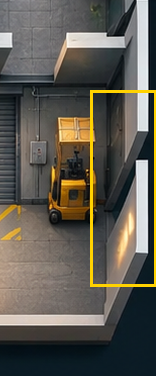
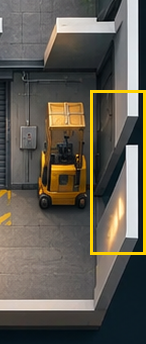
Cutaway spike: opening-mask rules, region 04b, revised masks 05 and 06
Claude-Session: https://claude.ai/code/session_015gowGr7XErynRgXchMmhL4

diff --git a/spikes/cutaway/base.js b/spikes/cutaway/base.js
@@ -10,8 +10,10 @@ const E = require('../../src/engine.js');
 const VARIANTS = { A: { k: 0.78, hI: 6, hE: 24, hF: 2, hT: 30, sh: 0 }, B: { k: 0.62, hI: 8, hE: 36, hF: 2, hT: 46, sh: 0 }, C: { k: 0.68, hI: 9, hE: 34, hF: 2, hT: 42, sh: 0.5 } };
 const geom = v => { const g = VARIANTS[v], off = g.hE + 6; return { ...g, h: g.hI, off, W: 400, H: Math.ceil(off + 300 * g.k + 6) }; };
 
-/* arch = true: architecture only, white on black, with no openings cut. That is every wall face, side face and cap plus
-   the wall span each opening sits in: the pixels a correction mask must never touch (maskcheck.py). */
+/* arch: architecture only, white on black (maskcheck.py). arch = true draws every wall face, side face and cap with no
+   openings cut, so the wall span of each opening counts too: the pixels a room mask must never touch.
+   arch = { o: 'v' | 'h', at, invert, cut } narrows it to one wall line (orientation o within 2.5 units of at), or with
+   invert to every wall except that line; cut = true keeps the openings cut. */
 function baseSVG(level, v, treated, arch) {
   const { k, hI, hE, hF, hT, sh, off, W, H } = geom(v), Y = y => off + k * y, t = 2.2, h = hI; // wall thickness (plan units)
   const wallH = (o, val) => o === 'h' ? (val <= 12 ? hE : val >= 288 ? hF : hI) : (val <= 12 || val >= 388 ? hE * 0.6 : hI);
@@ -21,7 +23,8 @@ function baseSVG(level, v, treated, arch) {
   // ground plate under the building
   s += `<rect x="10" y="${Y(10) - hE - 2}" width="380" height="${Y(290) - Y(10) + hE + 4}" rx="3" fill="#13232d"/>`;
   // openings: doors on this level and open passages between spaces on this level
-  const opens = arch ? [] : [...Object.entries(E.DOORS).filter(([d]) => E.doorLevel(d) === level).map(([, o]) => ({ p: o.p, w: 11 })),
+  const keepWall = (o, val) => !arch || arch === true || !arch.o || ((o === arch.o && Math.abs(val - arch.at) <= 2.5) !== !!arch.invert);
+  const opens = arch && !arch.cut ? [] : [...Object.entries(E.DOORS).filter(([d]) => E.doorLevel(d) === level).map(([, o]) => ({ p: o.p, w: 11 })),
     ...E.LINKS.filter(l => l[2] && E.SPACES[l[0]].l === level && E.SPACES[l[1]].l === level).map(l => ({ p: l[2], w: 15 }))];
   // floors (+ treated floor finish)
   for (const id of ids) { const sp = E.SPACES[id];
@@ -33,11 +36,11 @@ function baseSVG(level, v, treated, arch) {
   const cut = (a0, a1, pts) => { let segs = [[a0, a1]]; for (const [c, w] of pts) segs = segs.flatMap(([u0, u1]) => c - w / 2 > u1 || c + w / 2 < u0 ? [[u0, u1]] : [[u0, c - w / 2], [c + w / 2, u1]].filter(([p, q]) => q - p > 0.5)); return segs; };
   for (const id of ids) for (const r of E.SPACES[id].r) {
     const [x, y, w, hh] = r;
-    for (const yy of [y, y + hh]) { const pts = opens.filter(o => Math.abs(o.p[1] - yy) < 4 && o.p[0] > x - 1 && o.p[0] < x + w + 1).map(o => [o.p[0], o.w]);
+    for (const yy of [y, y + hh]) { if (!keepWall('h', yy)) continue; const pts = opens.filter(o => Math.abs(o.p[1] - yy) < 4 && o.p[0] > x - 1 && o.p[0] < x + w + 1).map(o => [o.p[0], o.w]);
       const wh = wallH('h', yy);
       for (const [a, b] of cut(x, x + w, pts)) { const B0 = Y(yy), dx = sh * wh, ct = k * t;
         walls.push({ key: yy, svg: `<polygon points="${a},${B0} ${b},${B0} ${b + dx},${B0 - wh} ${a + dx},${B0 - wh}" fill="url(#wallf)"/><polygon points="${a + dx},${B0 - wh} ${b + dx},${B0 - wh} ${b + dx + sh * ct},${B0 - wh - ct} ${a + dx + sh * ct},${B0 - wh - ct}" fill="#eef3f5"/>` }); } }
-    for (const xx of [x, x + w]) { const pts = opens.filter(o => Math.abs(o.p[0] - xx) < 4 && o.p[1] > y - 1 && o.p[1] < y + hh + 1).map(o => [o.p[1], o.w]);
+    for (const xx of [x, x + w]) { if (!keepWall('v', xx)) continue; const pts = opens.filter(o => Math.abs(o.p[0] - xx) < 4 && o.p[1] > y - 1 && o.p[1] < y + hh + 1).map(o => [o.p[1], o.w]);
       const wv = wallH('v', xx);
       for (const [a, b] of cut(y, y + hh, pts)) { const dx = sh * wv, Ya = Y(a), Yb = Y(b);
         walls.push({ key: b, svg: (sh ? `<polygon points="${xx},${Ya} ${xx},${Yb} ${xx + dx},${Yb - wv} ${xx + dx},${Ya - wv}" fill="#97a3aa"/>` : '') +

diff --git a/spikes/cutaway/maskcheck.py b/spikes/cutaway/maskcheck.py
@@ -1,30 +1,78 @@
 """Check a correction mask against the engine geometry (variant C, L1) before it is used.
-Usage: python3 spikes/cutaway/maskcheck.py NN [x0 y0 x1 y1]
-With no box, checks the region's box in the manifest; with a box, checks that proposal instead (nothing is written).
-Protected pixels are rendered from base.js with arch = true: every wall face, side face and cap, with no openings cut, so
-door openings and open passages count as protected too. PASS = the box holds no protected pixel. Also prints the clearance
-to the nearest protected pixel on each side, and the largest box that stays clear when grown from this one."""
-import json, subprocess, sys
+Usage: python3 spikes/cutaway/maskcheck.py NN [x0 y0 x1 y1] [--sheet out.png]
+With no box, checks the region's box in the manifest; with a box, checks that proposal instead (the manifest is not written).
+The architecture is rendered from base.js (arch mode). Two kinds of region, set by "check" in the manifest:
+
+interior (default; rooms, floors):
+  I1  the mask holds no architecture pixel: no wall face, side face or cap, and no wall span of any opening.
+
+opening (a mask that has to repaint part of one wall):  "check": {"kind": "opening", "o": "v"|"h", "at": wall coordinate,
+                                                                   "opening": [x, y], "width": plan units}
+  O1  the mask holds no pixel of any wall other than the target wall line;
+  O2  the mask contains the whole engine opening (the gap the engine cuts in that wall, with the wall's height and shear);
+  O3  the mask reaches no further than REACH px beyond that opening on any side;
+  O4  the mask does not overlap any region already composited (the manifest history), so approved rooms cannot change.
+Every region also gets O4. A targeted re-edit of a locked region sets "within": that region's key; it may overlap that
+region only, and (O5) must stay inside its box. --sheet writes the master with the mask (red), the opening (green) and other walls (blue)."""
+import json, re, subprocess, sys
 from pathlib import Path
 import numpy as np
 from PIL import Image
-root = Path(__file__).resolve().parents[2]; pkg = root / "docs/spikes/cutaway-l1-correction"; png = root / "spikes/cutaway/out/C-L1-arch.png"
-js = """const {baseSVG}=require('./spikes/cutaway/base.js'),{chromium}=require('playwright');(async()=>{const b=await chromium.launch(),pg=await b.newPage({viewport:{width:1600,height:1400}});
-const svg=baseSVG(1,'C',false,true).replace(/width="400" height="(\\d+)"/,(m,h)=>`width="1600" height="${h*4}"`);
-await pg.setContent(`<html><body style="margin:0;background:#000">${svg}</body></html>`);await pg.locator('svg').screenshot({path:process.argv[1]});await b.close()})()"""
-subprocess.check_call(["node", "-e", js, str(png)], cwd=root)
-A = np.asarray(Image.open(png).convert("L")) > 0  # any coverage counts, antialiased edges included
-man = json.loads((pkg / "manifest.json").read_text()); nn = sys.argv[1].zfill(2)
-name = next(k for k in man["regions"] if k.startswith(nn + "-")); box = [int(v) for v in sys.argv[2:6]] or man["regions"][name]["box_px"]
-x0, y0, x1, y1 = box; hit = int(A[y0:y1 + 1, x0:x1 + 1].sum())  # boxes are inclusive, as PIL draws them
-def clear(side):
-    n = 0
-    while n < 200:
-        n += 1
-        b = {"left": (y0, y1, x0 - n, x0 - n), "right": (y0, y1, x1 + n, x1 + n), "top": (y0 - n, y0 - n, x0, x1), "bottom": (y1 + n, y1 + n, x0, x1)}[side]
-        if A[b[0]:b[1] + 1, b[2]:b[3] + 1].any(): return n - 1
-    return n
-c = {s: clear(s) for s in ("left", "top", "right", "bottom")}
-print(json.dumps({"region": name, "box_px": box, "protected_pixels_inside": hit, "clear_px": c,
-                  "largest_clear_box": [x0 - c["left"], y0 - c["top"], x1 + c["right"], y1 + c["bottom"]], "result": "PASS" if hit == 0 else "FAIL"}, indent=1))
-sys.exit(0 if hit == 0 else 1)
+REACH = 28
+root = Path(__file__).resolve().parents[2]; pkg = root / "docs/spikes/cutaway-l1-correction"; out = root / "spikes/cutaway/out"
+def arch(spec, name):
+    js = """const {baseSVG}=require('./spikes/cutaway/base.js'),{chromium}=require('playwright');(async()=>{const b=await chromium.launch(),pg=await b.newPage({viewport:{width:1600,height:1400}});
+const svg=baseSVG(1,'C',false,JSON.parse(process.argv[1])).replace(/width="400" height="(\\d+)"/,(m,h)=>`width="1600" height="${h*4}"`);
+await pg.setContent(`<html><body style="margin:0;background:#000">${svg}</body></html>`);await pg.locator('svg').screenshot({path:process.argv[2]});await b.close()})()"""
+    subprocess.check_call(["node", "-e", js, json.dumps(spec), str(out / name)], cwd=root)
+    return np.asarray(Image.open(out / name).convert("L")) > 0  # any coverage counts, antialiased edges included
+args = sys.argv[1:]; sheet = None
+if "--sheet" in args: i = args.index("--sheet"); sheet = args[i + 1]; del args[i:i + 2]
+man = json.loads((pkg / "manifest.json").read_text()); nn = args[0].zfill(2)
+name = next(k for k in man["regions"] if k.startswith(nn + "-")); reg = man["regions"][name]
+box = [int(v) for v in args[1:5]] or reg["box_px"]; x0, y0, x1, y1 = box; chk = reg.get("check", {"kind": "interior"})
+H, W = man["size"][1], man["size"][0]; M = np.zeros((H, W), bool); M[y0:y1 + 1, x0:x1 + 1] = True  # boxes are inclusive, as PIL draws them
+res = {"region": name, "box_px": box, "kind": chk["kind"], "rules": {}}
+locked = np.zeros((H, W), bool)
+for h in man.get("history", []):
+    if h["region"] not in (name, chk.get("within")): b = man["regions"][h["region"]]["box_px"]; locked[b[1]:b[3] + 1, b[0]:b[2] + 1] = True
+if chk["kind"] == "interior":
+    A = arch(True, "C-L1-arch.png"); other = A; F = np.zeros_like(A)
+    res["rules"]["I1 no architecture inside"] = int((A & M).sum())
+    def clear(side):
+        n = 0
+        while n < 200:
+            n += 1
+            b = {"left": (y0, y1, x0 - n, x0 - n), "right": (y0, y1, x1 + n, x1 + n), "top": (y0 - n, y0 - n, x0, x1), "bottom": (y1 + n, y1 + n, x0, x1)}[side]
+            if b[2] < 0 or b[3] >= W or b[0] < 0 or b[1] >= H or A[b[0]:b[1] + 1, b[2]:b[3] + 1].any(): return n - 1
+        return n
+    c = {s: clear(s) for s in ("left", "top", "right", "bottom")} if not (A & M).any() else None
+    if c: res["clear_px"] = c; res["largest_clear_box"] = [x0 - c["left"], y0 - c["top"], x1 + c["right"], y1 + c["bottom"]]
+else:
+    line = {"o": chk["o"], "at": chk["at"]}
+    other = arch({**line, "invert": True}, "C-L1-arch-other.png")
+    gaps = arch(line, "C-L1-arch-line.png") & ~arch({**line, "cut": True}, "C-L1-arch-line-cut.png")  # every opening on that wall line
+    p = man["projection"]; px, py = chk["opening"][0] * 4, (p["off"] + p["k"] * chk["opening"][1]) * 4
+    gy, gx = np.nonzero(gaps); assert len(gx), "the engine cuts no opening on that wall line: check 'o' and 'at'"
+    i = int(np.argmin((gx - px) ** 2 + (gy - py) ** 2)); assert (gx[i] - px) ** 2 + (gy[i] - py) ** 2 < 40 ** 2, "no engine opening near 'opening'"
+    F = np.zeros_like(gaps); todo = [(int(gy[i]), int(gx[i]))]  # the one gap at that point: flood fill from its nearest pixel
+    while todo:
+        y, x = todo.pop()
+        if 0 <= y < H and 0 <= x < W and gaps[y, x] and not F[y, x]: F[y, x] = True; todo += [(y + 1, x), (y - 1, x), (y, x + 1), (y, x - 1)]
+    ys, xs = np.nonzero(F); fb = [int(xs.min()), int(ys.min()), int(xs.max()), int(ys.max())]; res["engine_opening_px"] = fb
+    res["rules"]["O1 no other wall inside"] = int((other & M).sum())
+    res["rules"]["O2 opening pixels left outside"] = int((F & ~M).sum())
+    res["rules"][f"O3 reach beyond the opening over {REACH}px"] = max(0, fb[0] - x0 - REACH, fb[1] - y0 - REACH, x1 - fb[2] - REACH, y1 - fb[3] - REACH)
+    res["tightest_allowed_box"] = fb; res["widest_allowed_box"] = [max(0, fb[0] - REACH), max(0, fb[1] - REACH), min(W - 1, fb[2] + REACH), min(H - 1, fb[3] + REACH)]
+res["rules"]["O4 no overlap with locked regions"] = int((locked & M).sum())
+if chk.get("within"):
+    b = man["regions"][chk["within"]]["box_px"]; inside = np.zeros((H, W), bool); inside[b[1]:b[3] + 1, b[0]:b[2] + 1] = True
+    res["rules"]["O5 stays inside " + chk["within"]] = int((M & ~inside).sum())
+res["result"] = "PASS" if not any(res["rules"].values()) else "FAIL"
+if sheet:
+    mp = max(pkg.glob("master-L1-v*.png"), key=lambda q: int(re.search(r"v(\d+)", q.stem).group(1))); a = np.asarray(Image.open(mp).convert("RGB")).astype(np.float32)
+    for m, col, w in ((other, (40, 90, 255), .45), (F, (0, 255, 120), .6)): a[m] = a[m] * (1 - w) + np.array(col) * w
+    edge = M & ~(np.roll(M, 2, 0) & np.roll(M, -2, 0) & np.roll(M, 2, 1) & np.roll(M, -2, 1)); a[edge] = (255, 40, 40)
+    c = (max(0, x0 - 110), max(0, y0 - 110), min(W, x1 + 110), min(H, y1 + 110)); im = Image.fromarray(a.astype(np.uint8)).crop(c)
+    im.resize((im.width * 3, im.height * 3), Image.LANCZOS).save(sheet)
+print(json.dumps(res, indent=1)); sys.exit(0 if res["result"] == "PASS" else 1)

diff --git a/spikes/cutaway/refresh.py b/spikes/cutaway/refresh.py
@@ -17,11 +17,11 @@ for name, r in pending.items():
     crop = master.crop((o[0], o[1], min(W, b[2] + 90), min(H, b[3] + 90)))
     ImageDraw.Draw(crop).rectangle([b[0] - o[0], b[1] - o[1], b[2] - o[0], b[3] - o[1]], outline=(255, 210, 0), width=3); crop.save(pkg / r["crop"])
     col = (255, 200, 0, 80) if name[:2] <= "04" else (255, 60, 60, 110)
-    rd.rectangle(b, fill=col, outline=col[:3] + (255,), width=4); rd.text((b[0] + 6, b[1] + 4), name[:2], fill=(255, 255, 255, 255), font=font(28), stroke_width=4, stroke_fill=(0, 0, 0, 255))
+    rd.rectangle(b, fill=col, outline=col[:3] + (255,), width=4); rd.text((b[0] + 6, b[1] + 4), name.split("-")[0], fill=(255, 255, 255, 255), font=font(28), stroke_width=4, stroke_fill=(0, 0, 0, 255))
 LH = 46 * len(pending) + 60; leg = Image.new("RGB", (W, LH), (12, 22, 30)); ld = ImageDraw.Draw(leg)
 ld.text((20, 12), "Amber: repaint the room interior to its real function.  Red: fix an opening.  Everything outside a box stays as is.", fill=(220, 230, 240), font=font(18))
 for i, (name, r) in enumerate(pending.items()):
-    ld.text((20, 52 + i * 46), f"{name[:2]}  {r['room']}", fill=(255, 220, 120) if name[:2] <= "04" else (255, 140, 140), font=font(19))
+    ld.text((20, 52 + i * 46), f"{name.split('-')[0]}  {r['room']}", fill=(255, 220, 120) if name[:2] <= "04" else (255, 140, 140), font=font(19))
 sheet = Image.new("RGB", (W, H + LH)); sheet.paste(ref, (0, 0)); sheet.paste(leg, (0, H)); sheet.save(pkg / f"reference-regions-v{v}.jpg", quality=88)
 cs = man["canvas_3x2"]["size"]; canvas = Image.new("RGB", tuple(cs), (10, 24, 34)); canvas.paste(master, (0, 0)); canvas.save(pkg / f"canvas-3x2-L1-v{v}.png")
-print(f"refreshed from {mp.name}: canvas-3x2-L1-v{v}.png, reference-regions-v{v}.jpg, crops for", ", ".join(k[:2] for k in pending))
+print(f"refreshed from {mp.name}: canvas-3x2-L1-v{v}.png, reference-regions-v{v}.jpg, crops for", ", ".join(k.split("-")[0] for k in pending))

diff --git a/docs/spikes/cutaway-l1-correction/README.md b/docs/spikes/cutaway-l1-correction/README.md
@@ -79,7 +79,27 @@ Order: 01 first, then 02, 03, 04, then 05 to 08. Do one region per pass. Never c
 
 ## Checking a mask against the engine
 
-`python3 spikes/cutaway/maskcheck.py NN [x0 y0 x1 y1]` renders the engine's architecture alone (every wall face, side face and cap, with no openings cut, so door openings and passages count too) and fails if the region's box, or a proposed box, holds any of those pixels. It also prints the clearance on each side and the largest clear box. Run it before a mask is used or changed. A mask protects architecture; it does not have to preserve leftovers of a wrong room, so before a region is sent, compare its crop with the largest clear box and widen the mask if old contents touch its edge.
+`python3 spikes/cutaway/maskcheck.py NN [x0 y0 x1 y1] [--sheet out.png]` renders the engine's architecture alone and checks the region's box, or a proposed box, against it. Run it before a mask is used or changed; a mask that fails is not sent. `--sheet` writes a picture of the mask (red), the engine opening (green) and the walls it must not touch (blue).
+
+A mask protects architecture. It does not have to preserve leftovers of a wrong room, so before a region is sent, compare its crop with the largest clear box and widen the mask if old contents touch its edge.
+
+**Interior regions** (rooms and floors: 01 to 04, 04b, 06)
+
+- I1: the mask holds no architecture pixel: no wall face, side face or cap, and no wall span of a door opening or passage.
+
+**Opening regions** (masks that have to repaint part of one wall: 05, 07, 08). Each names its target in the manifest: the wall line, the engine opening's plan point and its width.
+
+- O1: the mask holds no pixel of any wall other than the target wall line.
+- O2: the mask contains the whole engine opening: the gap the engine cuts in that wall, with the wall's height and shear.
+- O3: the mask reaches no more than 28 px beyond that opening on any side.
+
+**All regions**
+
+- O4: the mask does not overlap a region that has already been composited, so an approved room cannot change. A targeted re-edit of a locked region (04b) names that region as `within`: it may overlap that region only, and (O5) must stay inside its box.
+
+After an opening region is composited, the opening count is re-run: the target opening must match, and no other opening may regress.
+
+Region 06 changed kind. The roll-up door is not on the engine's north wall: it is painted on a false tall wall that stands on Receiving's floor. Removing it is an interior repaint of Receiving, and the north wall with its passage to the East service hall stays outside the mask.
 
 ## Status
 
@@ -89,6 +109,10 @@ Order: 01 first, then 02, 03, 04, then 05 to 08. Do one region per pass. Never c
 | 02 Jelly Room | PASS (Nov 10), with the mask revised to (1184, 286)–(1383, 436). The original inset kept pump-room pixels at the room's edges. | `master-L1-v3.png` |
 | 03 Seasonal | PASS (Nov 10), first composite, with the mask widened before editing to (1184, 493)–(1383, 643). Two exhibit features, no teal accent. | `master-L1-v4.png` |
 | 04 Atrium | Mask widened before editing to (816, 716)–(1254, 922): pipes crossed the original box's top and right edges, and old floor would have remained at the left and front. PASS (Nov 10), first composite. Accepted: a bench and planter stand just inside the West Gallery passage. | `master-L1-v5.png` |
+| 04b Atrium, West Gallery approach | Targeted edit inside 04, (818, 778)–(948, 906): remove the bench in the path from the passage. Prepared, not sent. | |
+| 05 Dock door | Box tightened to (1544, 716)–(1599, 880) to pass O3 and clear the forklift. Not sent. | |
+| 06 Receiving interior | Box changed to (1288, 694)–(1543, 922), interior kind. Not sent. | |
+| 07, 08 Reef passages | Boxes pass the opening rules unchanged. Not sent. | |
 
 ## Paste-ready prompt for GPT (region 02, against v2)
 
@@ -107,3 +131,9 @@ Attach `canvas-3x2-L1-v3.png`, `crop-03-seasonal.png` and `reference-regions-v3.
 Attach `canvas-3x2-L1-v4.png`, `crop-04-atrium.png` and `reference-regions-v4.jpg`. The source must be the v4 canvas: the Jelly Room shows jellyfish tanks and the Seasonal room shows a pale gallery.
 
 > Edit the attached aquarium cutaway illustration (the image where the upper-right room holds glowing blue jellyfish tanks and the room below it is a pale gallery with a coral case) and return it at exactly the same size and framing. Change only the large room inside the amber box marked 04 on the reference sheet (close-up attached, yellow outline). It is the Atrium, the aquarium's open central gathering space, but it is currently painted as back-of-house storage. Remove the crates, the cart, the pallets and every pipe and valve, including the pipes along the top edge of the box. Repaint the whole floor inside the box, edge to edge, as polished pale stone or terrazzo, and make the room a calm, welcoming, spacious public atrium: one or two low curved benches, and most of the floor left empty. The floor above this room is open, so show that with light only: a broad, soft pool of cool daylight falling from above onto the middle of the floor, with gentle reflections in the polished stone. A restrained inlaid floor motif of flowing wave or ripple lines is welcome if it stays subtle; do not draw a manta ray or any animal, because the round room above already has one. This is not an exhibit and not a tank: no water, no glass cases, no plinths. Do not draw stairs, steps, ramps, elevators, escalators, balconies, railings, mezzanine edges, columns, doors or any new opening; nothing here may suggest a way up. Keep the existing wall-mounted and floor light fixtures where they are. Keep every object inside the box; nothing may rise over the wall caps or cover an opening. No text, pseudo-text, signage, people or logos. Do not change the walls, wall caps, openings or any other room; everything outside the box must stay pixel-identical, with no shift, rescale, re-crop or change of perspective. Match the existing viewing angle (walls extrude up and to the right) and rendering style. If anything here conflicts with the image, tell me before painting rather than working around it.
+
+## Paste-ready prompt for GPT (region 04b, against v5)
+
+Attach `canvas-3x2-L1-v5.png`, `crop-04b-atrium-west-approach.png` and `reference-regions-v5.jpg`.
+
+> Make one small edit to the attached aquarium cutaway illustration (the image whose large lower room is a pale atrium with two curved wooden benches and two potted plants) and return it at exactly the same size and framing. Work only inside the amber box marked 04b on the reference sheet (close-up attached, yellow outline), at the left end of the atrium. Remove the curved bench inside that box, with its shadow, and leave empty polished floor where it stood. Keep the potted plant in the box where it is. Continue the existing floor exactly: the same pale stone, the same pale blue wave inlay lines running through the box without a break, the same reflections and light. Do not add anything in its place: no bench, no object, no rug, no marking. Everything else in the atrium stays as it is: the other bench and plant, the daylight pool, the wave inlay, the floor and the lights. Everything outside the box must stay pixel-identical, with no shift, rescale, re-crop or change of perspective. No text, signage, people or logos. If anything here conflicts with the image, tell me before painting rather than working around it.

diff --git a/docs/spikes/cutaway-findings.md b/docs/spikes/cutaway-findings.md
@@ -151,3 +151,11 @@ The pump room and office belong on L2 (Life support above Receiving; Ops offices
   - two planters were not in the brief;
   - a 6 px strip of the old darker floor remains along the front wall and reads as the wall's shadow.
 - **Openings:** 12 of 15, no regressions. All four room interiors are done; 05 to 08 remain.
+
+### Before the opening corrections (Nov 10)
+
+- **Atrium circulation:** v5 stays the baseline. A targeted region, 04b, (818, 778)–(948, 906), covers the bench and planter inside the West Gallery passage; the edit removes the bench and keeps the planter. Prepared, not sent.
+- **Mask rules for 05 to 08** are in `maskcheck.py` and the correction README: interior masks hold no architecture; opening masks touch one named wall line only, contain the whole engine opening, reach no more than 28 px past it, and never overlap a locked region.
+- **Region 06 is an interior region, not a wall edit.** The roll-up door is painted on a false tall wall standing on Receiving's floor; the engine's north wall is above it and already correct. Its mask is now Receiving's floor, (1288, 694)–(1543, 922).
+- **Region 05** was tightened to (1544, 716)–(1599, 880). The painting already has a break in the east wall near the engine's dock opening; the pass has to make it read as a dock door.
+- All nine regions pass their rules. Nothing was composited; the master is still v5.
